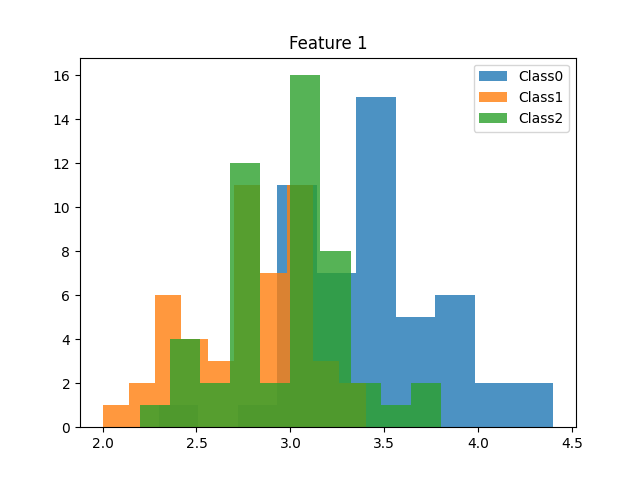
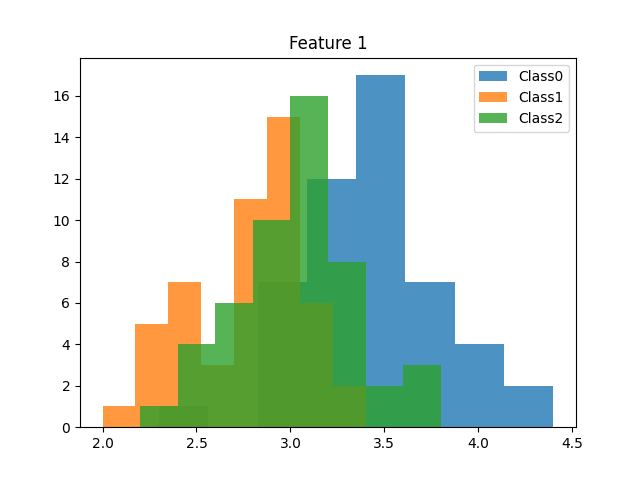
Ferdigstilte IRIS

diff --git a/Iris/scripts/model.py b/Iris/scripts/model.py
@@ -1,0 +1,90 @@
+from common_utilities.evaluation import generate_confusion_matrix_and_error_rates
+import matplotlib.pyplot as plt
+import numpy as np
+import numpy as np
+
+
+def MSE(G, T):
+    """
+    Input: the model's estimate G and the wanted target T
+    Output: The MSE scalar
+    """
+    MSE = 0
+    for col in range(np.shape(G)[1]):
+        MSE += (G[:,col] - T[:,col]).T @ (G[:,col] - T[:,col])
+    return 1/2 * MSE
+
+def grad_MSE(G, T, X):
+    """
+    Input: the model's estimate G, the wanted target T and the training data X
+    Output: the gradient of MSE with respect to W.
+    """
+    delta = (G - T) * G * (1 - G)  # (C, N) elementwise
+    return delta @ X.T 
+
+#Model-training
+def train_model(X, T):
+    """
+    Trains the model W based on the input data X and the solution provided by T.
+    Output: Trained matrix W
+    """
+    DIM = np.shape(X)[0] - 1; C = np.shape(T)[0]
+    W = np.zeros((C, DIM + 1)) # G[i] = C x 1 and X[i] = (DIM + 1) x 1 and G[i]= WX[i] => W = C x (DIM + 1)
+    G = 1 / (1 + np.exp(-W @ X)) # Same shape as W @ X naturally. Start with the G-values that correspond to W0 
+
+    alpha = 0.001 # Tuned this value...
+    tresh = 10**(-6) #* 10 # Stop when we no longer get that previous MSE is more than tresh * 100% greater than the new one..
+    prev_err = 1000000; curr_err = 0.9*prev_err
+    rel_err = (prev_err - curr_err) / curr_err #Checks improvement in MSE
+
+    while (rel_err > tresh):# > tresh):
+        W = W - alpha * grad_MSE(G, T, X)
+        Z = W @ X
+        G = 1 / (1 + np.exp(-Z))
+        prev_err = curr_err
+        curr_err = MSE(G, T)
+        rel_err = (prev_err - curr_err) / curr_err #Checks improvement in MSE
+        #print(rel_err*100, "%")
+    return W
+
+
+
+
+def get_predicted_classes(X, W):
+    """
+    Gets the predicted class for a given classifier W and input data X. 
+    """
+    Z = W @ X
+    G = 1 / (1 + np.exp(-Z))
+    C = np.argmax(G, axis=0) 
+    return C
+
+def train_and_evaluate(X_train, X_test, feature_subsets, target_training, test_labels, results_path):
+    DIM = np.shape(X_train)[0] - 1
+    for i, features in enumerate(feature_subsets):
+        W = train_model(X_train[features, :], target_training)
+        predicted_labels = get_predicted_classes(X_test[features, :], W)
+        n_features = DIM - i
+        C = np.shape(target_training)[0]
+        generate_confusion_matrix_and_error_rates(
+            test_labels, predicted_labels,
+            f"Classifier performance using {n_features} features",
+            f"{results_path}/confusion_matrix_{n_features}_features.png",
+            range(C)
+        )
+
+
+def plot_feature_histograms(class_features, rel_path, BINS = 10):
+    """
+    Plots the histograms for each feature of a C x N x D input.
+    """
+    DIM = np.shape(class_features)[2]
+    C = np.shape(class_features)[0]
+
+    for i in range(DIM): #Plot histograms for each feature
+        for j in range(C): # and each class
+            plt.hist(class_features[j, :, i], alpha=0.8, label="Class" + str(j), bins=BINS)
+        plt.title("Feature " + str(i))
+        plt.legend()
+        plt.savefig(rel_path + "/Histogram_feature_" + str(i))
+        plt.cla()

diff --git a/Iris/scripts/iris_classification.py b/Iris/scripts/iris_classification.py
@@ -1,0 +1,35 @@
+import model
+import numpy as np
+
+
+
+# All data about each feature of each class
+
+class_features = np.loadtxt("Iris/data/iris.data", delimiter=",", usecols=(0, 1, 2, 3)).reshape(3, 50, 4)
+N_training = 30; N_testing = 20
+
+training_set_first_30 = class_features[:, :N_training, :].reshape(-1, 4)
+testing_set_last_20 = class_features[:, N_training:, :].reshape(-1, 4)
+X_training = np.column_stack((training_set_first_30, np.ones(3*N_training))).T
+X_testing = np.column_stack((testing_set_last_20, np.ones(3*N_testing))).T
+
+#For 1d) spefically
+X_training_last_30 = np.column_stack((class_features[:, N_testing:, :].reshape(-1, 4), np.ones(3*N_training))).T
+X_testing_first_20 = np.column_stack((class_features[:, :N_testing, :].reshape(-1, 4), np.ones(3*N_testing))).T
+
+#Define the correct target solution
+target_training = np.zeros((3, 3*N_training)); target_training[0, :N_training] = 1; target_training[1, N_training:2*N_training] = 1; target_training[2, 2*N_training:] = 1 
+test_labels = np.zeros(N_testing*3); test_labels[0:N_testing] = 0; test_labels[N_testing:2*N_testing] = 1; test_labels[2*N_testing:3*N_testing] = 2
+
+
+#Plot histograms to figure out which features to use for next step
+
+model.plot_feature_histograms(class_features, "../TTT4275_CLASSIFICATION/Iris/results/seperability_histograms/", 8)
+  
+
+features_combinations = [range(0,5), range(1, 5), range(2, 5), range(3, 5)] #iteration i uses i + 1 features. By coincidence the worst feature to use is always the one with the lowest index, so we can easily write the features like this....
+#Train ALL the models that uses the first 30 samples as a training set. Then quantify their performance.
+model.train_and_evaluate(X_training, X_testing, features_combinations, target_training, test_labels, "../Iris/results/default_training_set")
+#Train the model that uses the last 30 samples as a training set, and quantify performance..
+model.train_and_evaluate(X_training_last_30, X_testing_first_20, [features_combinations[0]], target_training, test_labels, "../Iris/results/last_30_training_set")
+

diff --git a/main.py b/main.py
@@ -8,7 +8,7 @@ def main():
     iris_dir = os.path.join(root, "Iris")
     numbers_dir = os.path.join(root, "Numbers")
     env["PYTHONPATH"] = os.pathsep.join([root, iris_dir, numbers_dir])
-    subprocess.run([sys.executable, "Iris/iris_classification.py"], env=env)
+    subprocess.run([sys.executable, "Iris/scripts/iris_classification.py"], env=env)
     subprocess.run([sys.executable, "Numbers/numbers_classification.py"], env=env)
 
 
